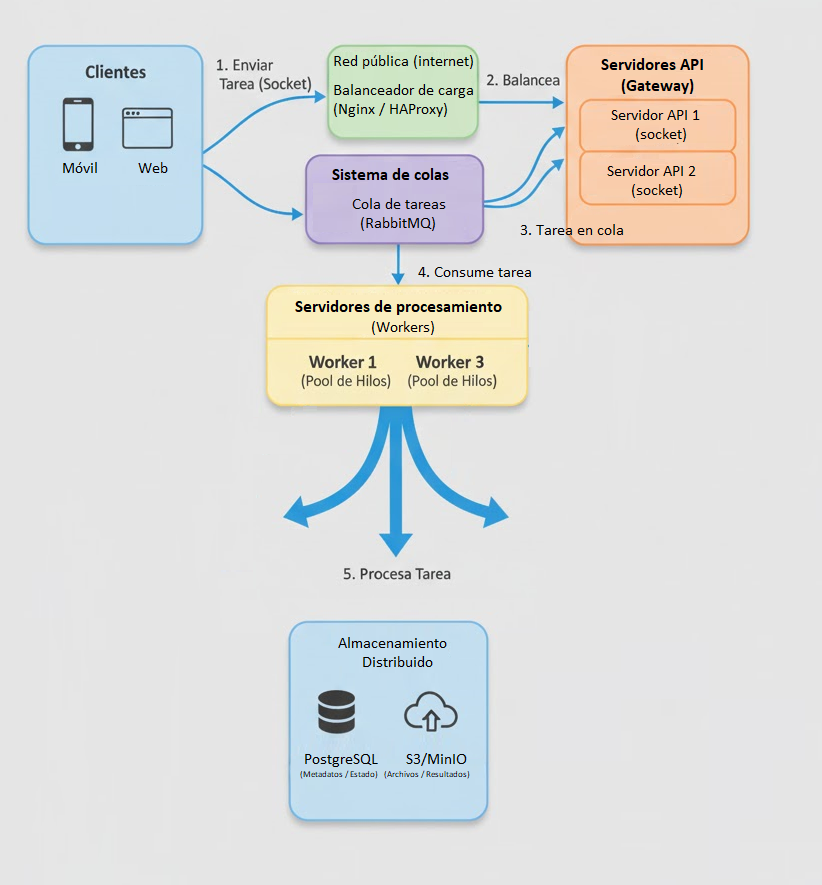
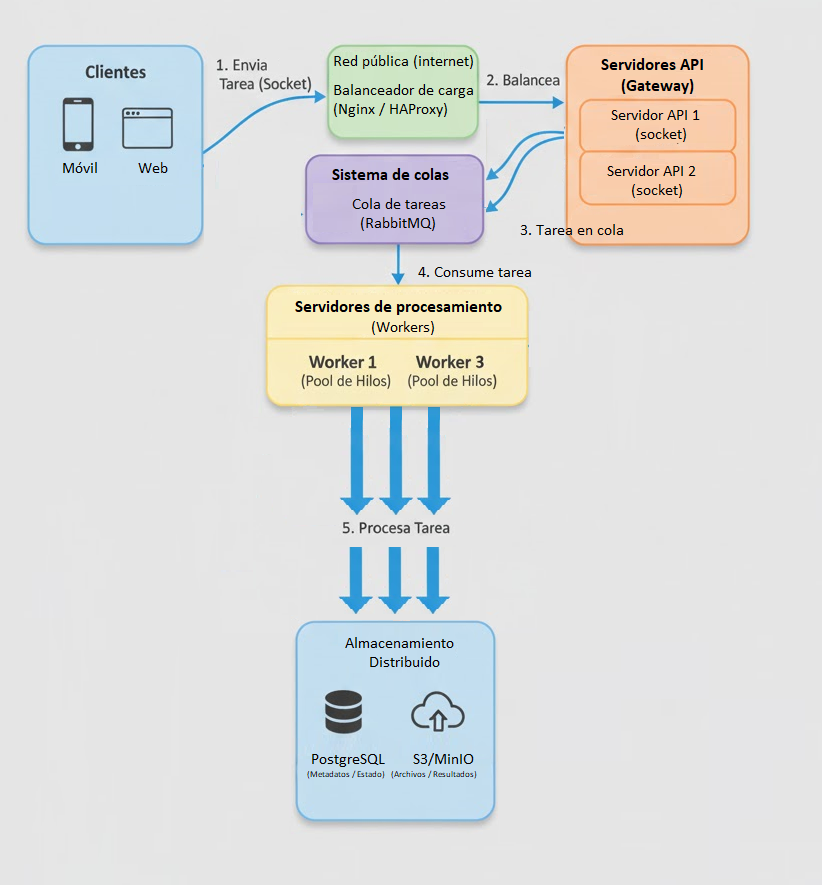
corrijo diagrama en README

diff --git a/README.MD b/README.MD
@@ -43,8 +43,6 @@ Se diseñó un diagrama de arquitectura distribuida que incluye los siguientes c
 * **Sistema de Colas:** (RabbitMQ)
 * **Almacenamiento Distribuido:** (PostgreSQL y S3)
 
-![Diagrama de Arquitectura Distribuida](./capturas/01-esquema.png)
-
 
 ### Descripción general
 El sistema se diseñó bajo una **arquitectura distribuida orientada a tareas**, donde múltiples clientes (web y móvil) envían solicitudes mediante **sockets**.  
